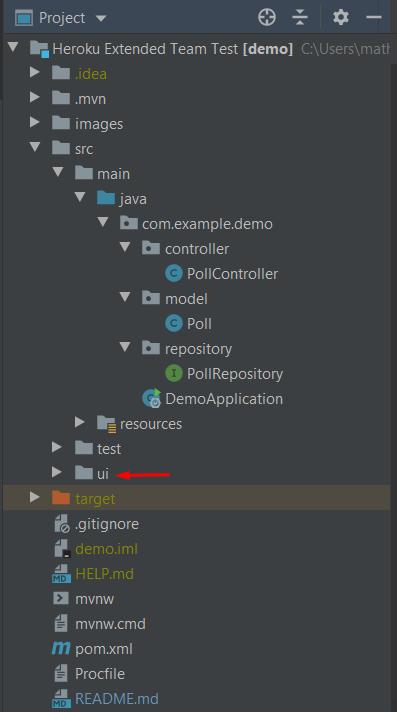
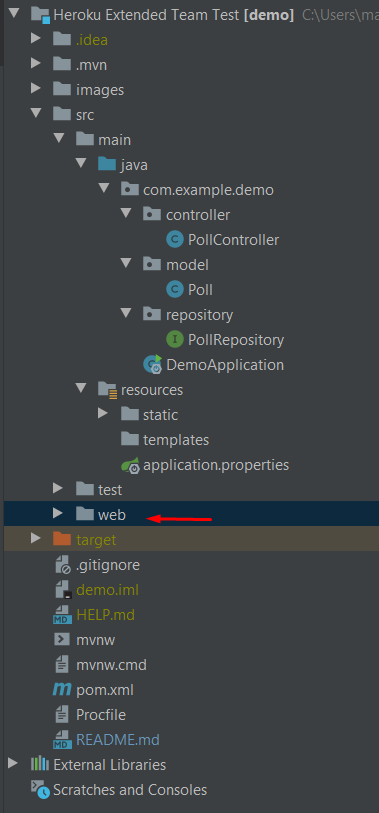
update read me

diff --git a/README.md b/README.md
@@ -58,7 +58,7 @@ There are 3 components: `poll-list`, `poll-details`, `add-poll`.
 ![Back End Strutcture](images/back-end-structure.png)
 
 The back end was built using Java 8 + Spring Boot + Maven. The `pom.xml` file was generated using the [Spring Initializr service](https://start.spring.io/).
-The Angular source code is located inside the `/src/ui` folder.
+The Angular source code is located inside the `/src/web` folder.
 
 – `Poll` data model class corresponds to entity and table tutorials.
 
@@ -104,7 +104,15 @@ mvn spring-boot:run
 
 To start the front end, open a new terminal instance: 
 ```
-cd src/ui/test/
+cd src/web/test/
 npm install
-ng serve --port 8081
+ng serve
 ```
+
+The application can then be accessed in the browser, trough the url http://localhost:4200/
+
+### Heroku Deployment
+
+Even tough it was not requested to deploy the app in a production environment, Heroku provides a simple alternative to test the app in a real world approach.
+
+To publish on the internet, you need to build the front end files, using the `ng build prod` in the Angular root folder. Then, copy the generated files from the `/target/` folder to the `/src/main/resources/static` folder, which will be served from the Java backend.
